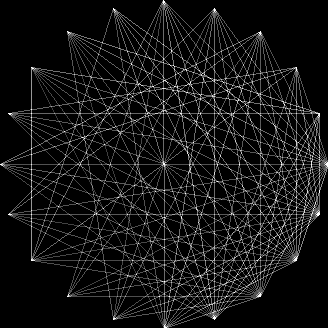
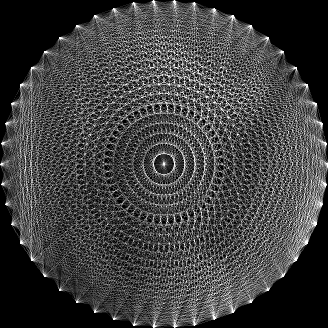
perf: improved greedy algorithm time
- fixed bug in greedy selector, where indices would not correspond to the
correct candidates
- empirically determined the best TOP_K value = 10
- current time now is 4.5 min with 1000 lines

diff --git a/stringart/utils/greedy_selector.py b/stringart/utils/greedy_selector.py
@@ -20,8 +20,8 @@ class Selector(ABC):
         The number of rows in matrix `A`.
     cols : int
         The number of columns in matrix `A`.
-    top_k : int
-        The number of top candidates to select, based on `TOP_K_PERCENT`.
+    TOP_K : int
+        The number of top candidates to select.
 
     Methods
     -------
@@ -29,13 +29,13 @@ class Selector(ABC):
         Abstract method for selecting the top-k candidate indices based on a certain heuristic.
     """
 
-    TOP_K_PERCENT: float = 0.25
+    TOP_K: int = 10
 
-    def __init__(self, A: csr_matrix, b: np.ndarray):
+    def __init__(self, A: csr_matrix, b: np.ndarray, indices: np.ndarray):
         self.A = A
         self.b = b
         self.rows, self.cols = A.shape
-        self.top_k = int(self.cols * Selector.TOP_K_PERCENT)
+        self.indices = indices
 
     @abstractmethod
     def get_top_k_candidates(self):
@@ -62,7 +62,7 @@ class RandomSelector(Selector):
         np.ndarray
            An array containing the indices of the randomly selected top-k candidates.
         """
-        random_indices = np.random.choice(self.cols, self.top_k, replace=False)
+        random_indices = np.random.choice(self.indices, Selector.TOP_K, replace=False)
         return random_indices
 
 
@@ -75,8 +75,8 @@ class DotProductSelector(Selector):
         An array containing the dot products between the columns of `A` and the vector `b`.
     """
 
-    def __init__(self, A: csr_matrix, b: np.ndarray):
-        super().__init__(A, b)
+    def __init__(self, A: csr_matrix, b: np.ndarray, indices: np.ndarray):
+        super().__init__(A, b, indices)
         self.dot_products = A.T @ b
 
     def get_top_k_candidates(self):
@@ -89,6 +89,6 @@ class DotProductSelector(Selector):
         """
 
         candidate_indices = np.argsort(-np.abs(self.dot_products))
-        top_candidates = candidate_indices[: self.top_k]
+        top_candidates = candidate_indices[: Selector.TOP_K]
 
-        return top_candidates
+        return self.indices[top_candidates]

diff --git a/stringart/solver.py b/stringart/solver.py
@@ -122,9 +122,9 @@ class Solver:
             center_point=center_point,
         )
 
-        candidate_lines = csr_matrix(MatrixGenerator.generate_dense_matrix(self.shape, pegs))
+        candidate_lines = MatrixGenerator.generate_sparse_matrix(self.shape, pegs)
         rows, cols = candidate_lines.shape
-        best_lines: set[int] = set()
+        selected_lines: set[int] = set()
         all_line_indices = set(range(cols))
         past_residual = np.inf
 
@@ -136,16 +136,20 @@ class Solver:
             best_residual = np.inf
 
             # exclude already selected lines
-            remaining_lines_indices = all_line_indices - best_lines
+            remaining_lines_indices = all_line_indices - selected_lines
             remaining_candidate_lines = candidate_lines[:, list(remaining_lines_indices)]
 
             # initialize selector
-            selector = Solver.__greedy_map_selector[selector_type](remaining_candidate_lines, self.b)
+            selector = Solver.__greedy_map_selector[selector_type](
+                remaining_candidate_lines,
+                self.b,
+                np.array(list(remaining_lines_indices)),
+            )
             top_candidates = selector.get_top_k_candidates()
 
             for column_index in top_candidates:
                 # check if we already included the line; TODO: might be redundant with the remaining_candidate logic
-                if column_index in best_lines:
+                if column_index in selected_lines:
                     continue
 
                 trial_column = candidate_lines[:, column_index]
@@ -162,7 +166,7 @@ class Solver:
             if best_index == -1:
                 break
 
-            best_lines.add(best_index)
+            selected_lines.add(best_index)
             best_column = candidate_lines[:, best_index]
             A = hstack([A, best_column])
             x = lsqr(A, self.b)[0]

diff --git a/stringart/line_algorithms/matrix.py b/stringart/line_algorithms/matrix.py
@@ -1,7 +1,7 @@
 from typing import Callable, List
 
 import numpy as np
-import scipy.sparse
+from scipy.sparse import csr_matrix
 from stringart.line_algorithms.bresenham import Bresenham
 from stringart.utils.circle import compute_pegs
 from stringart.utils.image import find_radius_and_center_point
@@ -138,7 +138,7 @@ class MatrixGenerator:
         return np.array(A).T
 
     @staticmethod
-    def generate_sparse_matrix(shape: tuple[int, ...], pegs: List[Point]) -> np.ndarray:
+    def generate_sparse_matrix(shape: tuple[int, ...], pegs: List[Point]) -> csr_matrix:
         """Generates a sparse matrix representation of lines drawn between all pairs of pegs.
 
         The sparse matrix is in CSR format, where each non-zero entry corresponds to a point in the grid
@@ -173,7 +173,7 @@ class MatrixGenerator:
 
                 column_index += 1
 
-        A = scipy.sparse.csr_matrix(
+        A = csr_matrix(
             ([1.0] * len(row_indices), (row_indices, column_indices)), shape=(shape[0] * shape[1], column_index)
         )
 

diff --git a/stringart/main.py b/stringart/main.py
@@ -1,4 +1,5 @@
 import os
+import time
 from pathlib import Path
 
 from matplotlib import pyplot as plt
@@ -22,8 +23,19 @@ def main() -> None:
     # solver = Solver(image, mode, number_of_pegs=100)
     # solution = solver.least_squares("sparse")
 
-    solver = Solver(image, mode, number_of_pegs=20)
-    solution = solver.greedy(number_of_lines=100, selector_type="random")
+    time_start = time.time()
+
+    solver = Solver(image, mode, number_of_pegs=50)
+    solution = solver.greedy(number_of_lines=1000, selector_type="random")
+
+    time_end = time.time()
+    elapsed_time = time_end - time_start
+
+    minutes = int(elapsed_time // 60)
+    seconds = int(elapsed_time % 60)
+    milliseconds = int((elapsed_time % 1) * 1000)
+
+    print(f"Elapsed time: {minutes:02d}:{seconds:02d}.{milliseconds:03d}")
 
     io.imsave(metadata.path / "outputs/lena_stringart_greedy.png", solution)
     io.imshow(solution)
